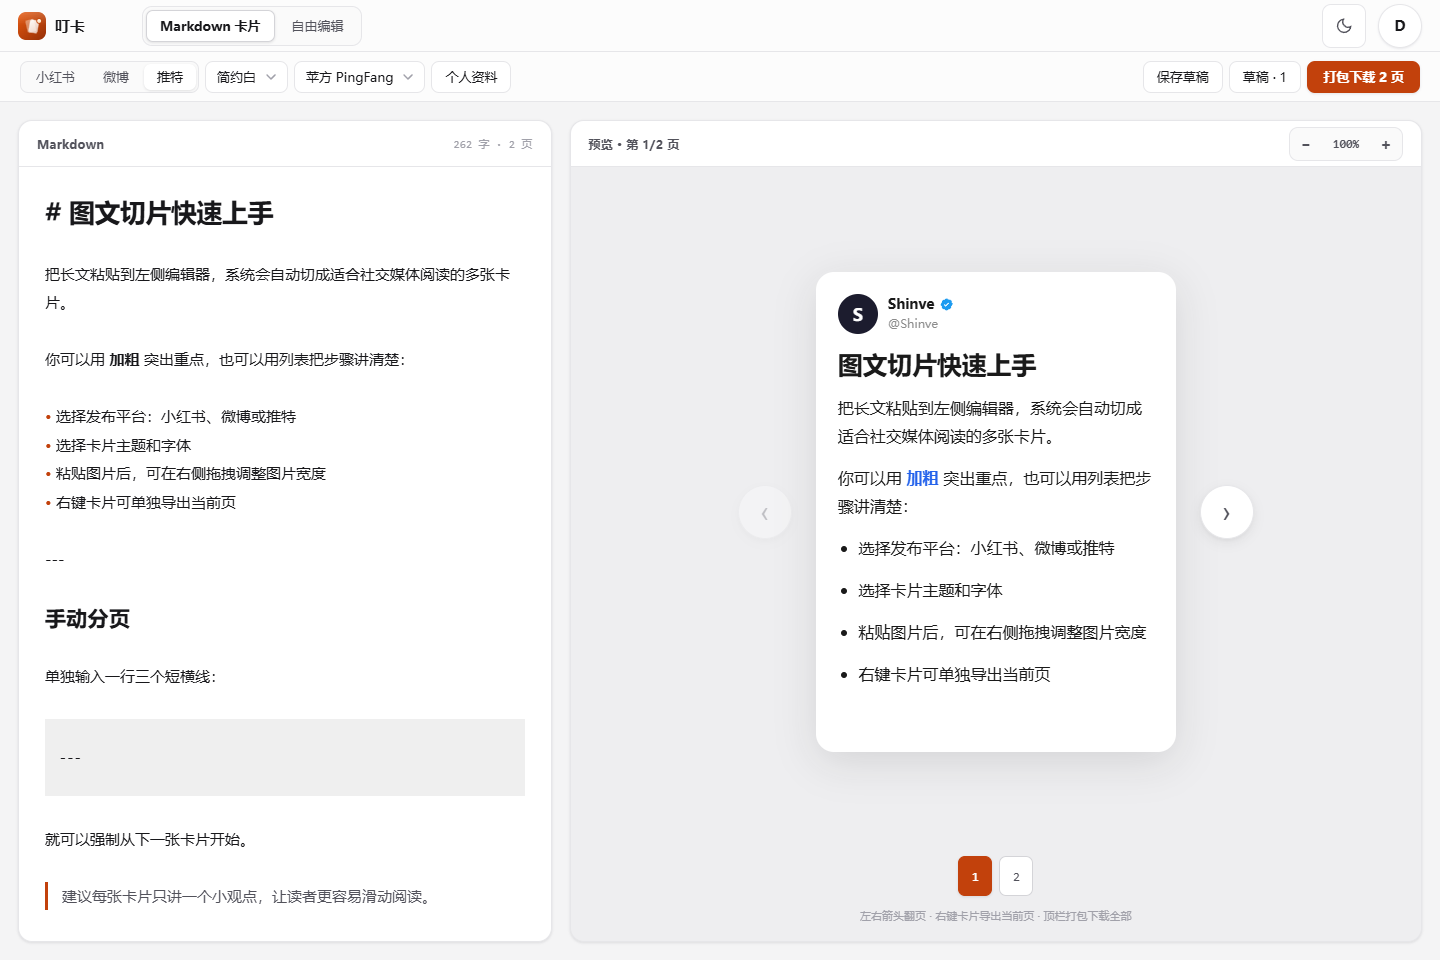
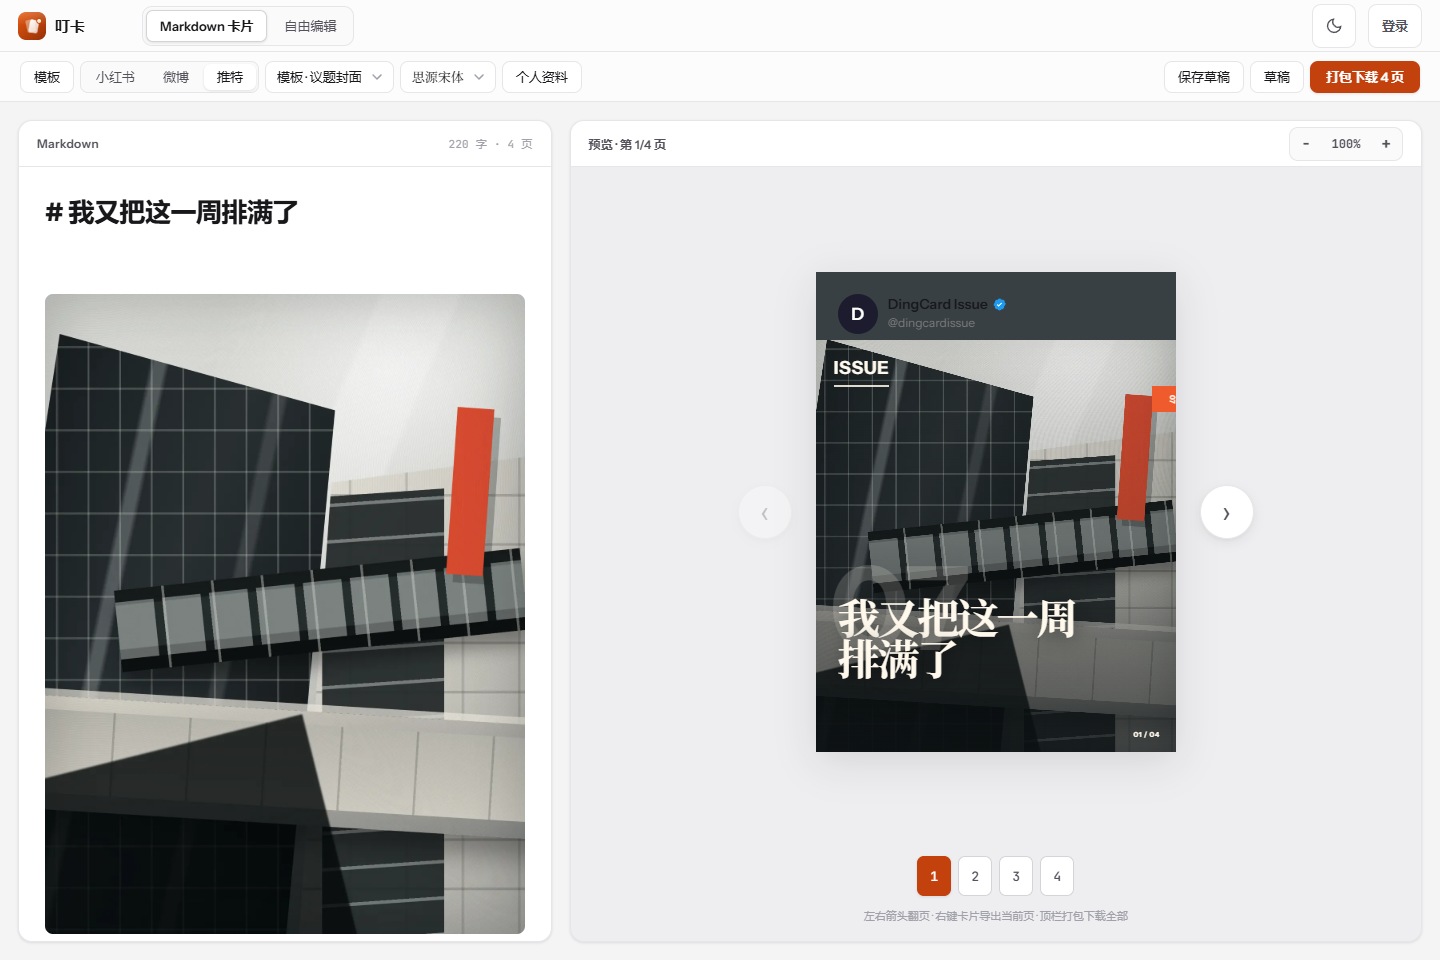
docs: release markdown template redesign

diff --git a/README.md b/README.md
@@ -3,7 +3,7 @@
   <p><strong>小红书长文排版 + 轻设计出图</strong></p>
   <p>把一篇长文整理成适合滑动阅读的图文卡片，也能在自由画布里完成封面和重点页。</p>
   <p>
-    <a href="CHANGELOG.md"><img src="https://img.shields.io/badge/version-0.12.0-e2570f" alt="叮卡版本 0.12.0"></a>
+    <a href="CHANGELOG.md"><img src="https://img.shields.io/badge/version-0.13.0-e2570f" alt="叮卡版本 0.13.0"></a>
     <a href="https://github.com/lottshin/DingCard/actions/workflows/ci.yml"><img src="https://github.com/lottshin/DingCard/actions/workflows/ci.yml/badge.svg" alt="GitHub CI"></a>
     <a href="https://dingcard.vercel.app"><img src="https://img.shields.io/badge/demo-online-2f855a" alt="在线 Demo"></a>
     <a href="https://github.com/lottshin/DingCard/pkgs/container/dingcard"><img src="https://img.shields.io/badge/GHCR-0.11.0-2496ED?logo=docker&amp;logoColor=white" alt="GHCR 镜像 0.11.0"></a>
@@ -37,7 +37,7 @@
 
 叮卡把内容排版和轻量设计放在同一个浏览器工具中：
 
-- 不想从空白页开始时，可以从模板中心选择“编辑部、清单、信号、夜航”四套多页作品。
+- 不想从空白页开始时，Markdown 有“编辑档案”“公共剧场”“议题封面”三套四页模板；自由画布保留四套可编辑作品。
 - 写长文时，用 Markdown 专注内容，实时预览分页效果。
 - 做封面或重点页时，切到自由画布，在页面上安排内容并管理图层。
 - 完成后导出当前页，或把整组图片打包为 ZIP。
@@ -54,7 +54,7 @@
 - 正文中的 `---` 会被当作分页标记，方便你在需要的位置开始下一张卡片。
 - 图片粘贴后可以在预览区域调整宽度，不必重新处理原图。
 - 当前页面可以单独导出，全部分页也可以一次打包下载。
-- 打开模板后会得到一篇三页示例，主题和字体已经配好，正文可以直接改。
+- 模板中心有三套四页作品。编辑档案偏杂志排版，公共剧场更硬朗，议题封面以图片和大字为主。
 
 ![叮卡 Markdown 推特长文排版工作区](docs/assets/markdown-workspace.png)
 

diff --git a/docs/superpowers/plans/2026-07-25-markdown-template-redesign-implementation.md b/docs/superpowers/plans/2026-07-25-markdown-template-redesign-implementation.md
@@ -371,31 +371,31 @@
 - Modify: `scripts/release-readiness.test.mjs`
 - Modify: `docs/assets/markdown-workspace.png`
 
-- [ ] **Step 1: 先更新发布就绪测试为 0.13.0**
+- [x] **Step 1: 先更新发布就绪测试为 0.13.0**
 
   测试应检查根包、lockfile 顶层/根包、README 徽章、CHANGELOG 章节和后端规划中的前端版本一致。服务端版本继续是 0.3.0，Docker/Compose 文档继续指向已发布的 0.11.0 镜像。
 
-- [ ] **Step 2: 运行测试，确认文档版本尚未同步**
+- [x] **Step 2: 运行测试，确认文档版本尚未同步**
 
   Run: `node --test scripts/release-readiness.test.mjs`
 
   Expected: FAIL，仍检测到 0.12.0。
 
-- [ ] **Step 3: 同步版本和产品文档**
+- [x] **Step 3: 同步版本和产品文档**
 
   使用 `npm version 0.13.0 --no-git-tag-version` 同步根包和 lockfile；README 改为三套 Markdown + 四套自由画布，模板说明采用简洁功能列表，不重复段落、不写宣传式 AI 文案。CHANGELOG 记录页面角色、三套模板、旧主题兼容和本地图片资源。
 
-- [ ] **Step 4: 重截 README 工作区图片**
+- [x] **Step 4: 重截 README 工作区图片**
 
   保持浏览器现有会话，打开本地应用并应用一套新模板；截取与 README 现有布局匹配的工作区画面，覆盖 `docs/assets/markdown-workspace.png`。不得关闭用户当前浏览器。
 
-- [ ] **Step 5: 运行发布就绪测试**
+- [x] **Step 5: 运行发布就绪测试**
 
   Run: `node --test scripts/release-readiness.test.mjs`
 
   Expected: PASS。
 
-- [ ] **Step 6: 提交版本与文档**
+- [x] **Step 6: 提交版本与文档**
 
   ```bash
   git add package.json package-lock.json README.md CHANGELOG.md docs/backend-plan.md scripts/release-readiness.test.mjs docs/assets/markdown-workspace.png

diff --git a/CHANGELOG.md b/CHANGELOG.md
@@ -4,6 +4,22 @@
 
 ## [Unreleased]
 
+## [0.13.0] - 2026-07-26
+
+### Added
+
+- Markdown 模板中心换成“编辑档案”“公共剧场”“议题封面”三套四页作品，每套都有自己的正文结构和分页样式。
+- 模板装饰、页码和本地建筑图片会随卡片一起导出；图片加载失败时仍能正常阅读和导出正文。
+
+### Changed
+
+- 分页会识别封面、正文、引文、列表和收尾页，同一套模板不再把所有页面排成一个样子。
+- 旧版四套 Markdown 主题仍能打开已有草稿，但不再占用主题选择器；自由画布的四套模板保持不变。
+- 390px 宽度下，Markdown 编辑区和预览区改为上下排列，工具栏可横向滚动。
+- 前端版本升至 `0.13.0`；服务端仍为 `0.3.0`。
+- LocalStore 与 RemoteStore 仍是独立数据源，切换模式时不自动迁移账号、草稿或图片。
+- `0.13.0` 尚未发布远端镜像；README、Compose 和部署文档继续固定已发布的 GHCR `0.11.0` 镜像。
+
 ## [0.12.0] - 2026-07-24
 
 ### Added

diff --git a/docs/backend-plan.md b/docs/backend-plan.md
@@ -1,6 +1,6 @@
 # 叮卡 · 后端接入方案
 
-> 当前源码版本：前端 `0.12.0`，后端 `0.3.0`；当前已发布的 GHCR 镜像仍为 `0.11.0`。后端自动化测试可从仓库根目录运行 `npm run test:server`（等价于 `npm --prefix server test`，覆盖数据库迁移、图片引用扫描、租约回收与用户级资源锁）；端到端冒烟运行 `node server/smoke-test.mjs`。
+> 当前源码版本：前端 `0.13.0`，后端 `0.3.0`；当前已发布的 GHCR 镜像仍为 `0.11.0`。后端自动化测试可从仓库根目录运行 `npm run test:server`（等价于 `npm --prefix server test`，覆盖数据库迁移、图片引用扫描、租约回收与用户级资源锁）；端到端冒烟运行 `node server/smoke-test.mjs`。
 
 把当前"纯浏览器存储"改造成真实后端,实现跨设备同步与真实账号。
 
